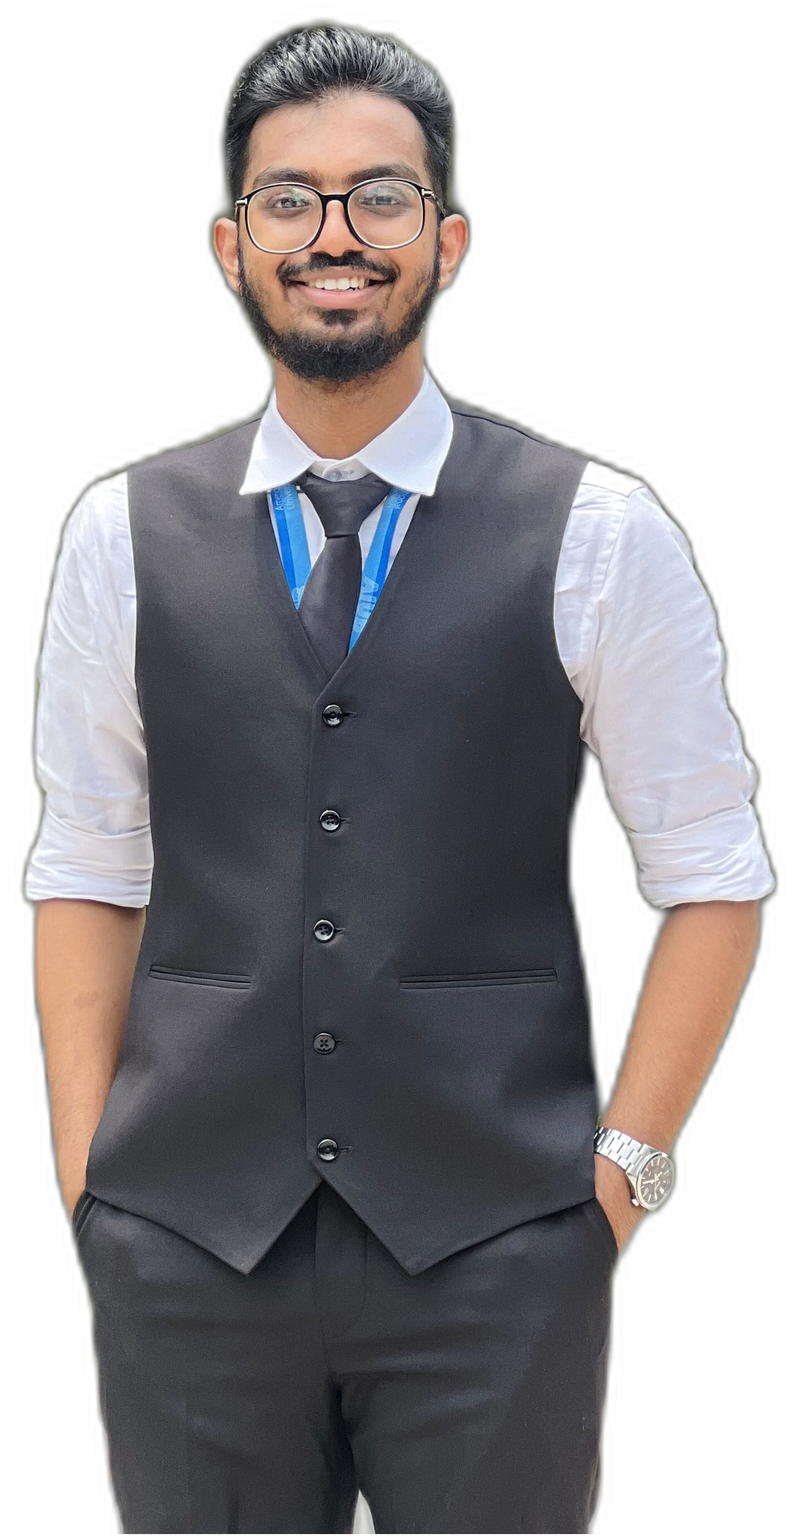
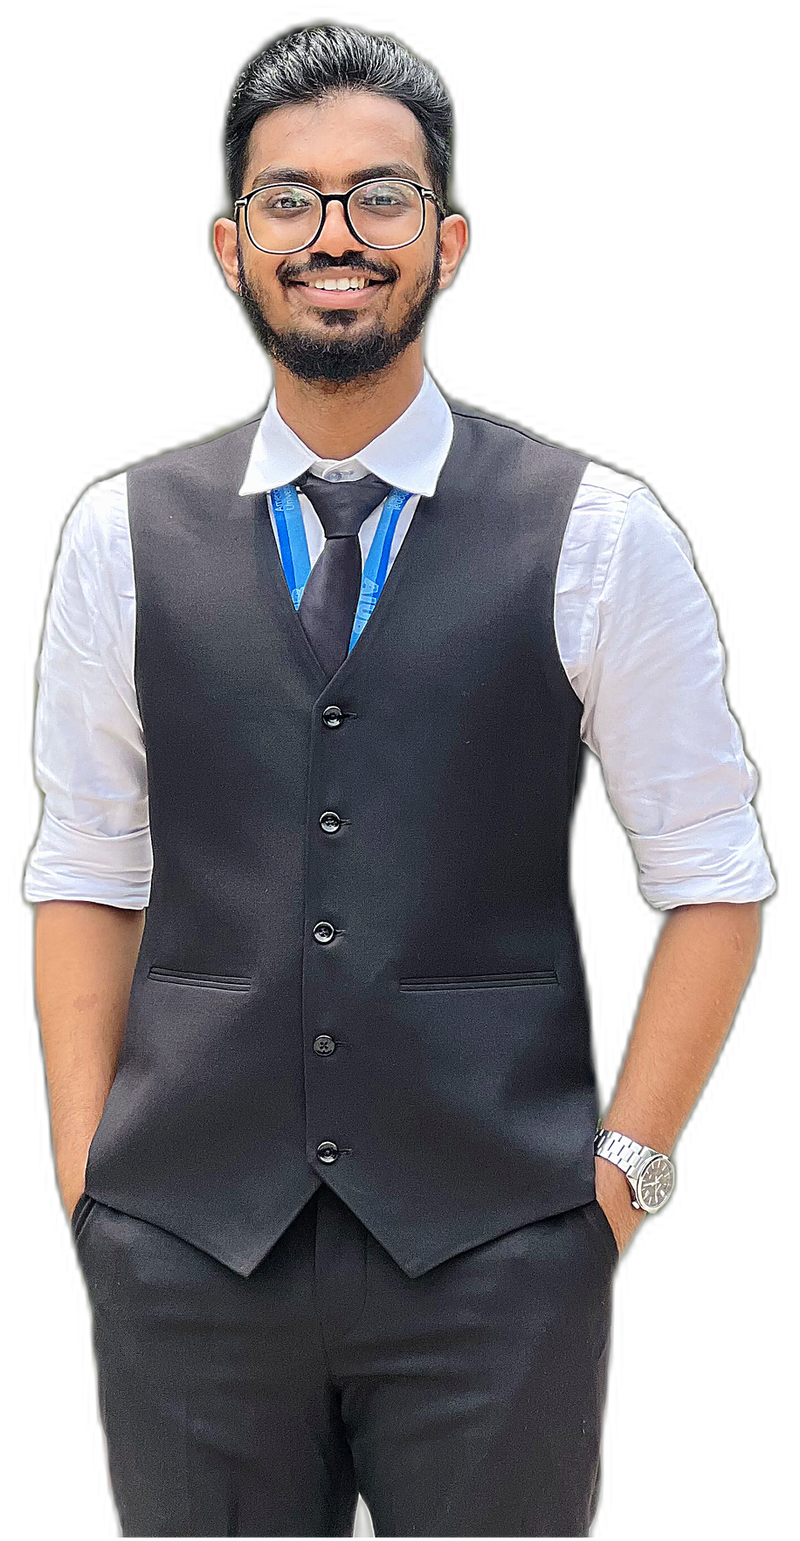
Refactor code structure for improved readability and maintainability

diff --git a/assets/css/style.css b/assets/css/style.css
@@ -226,25 +226,9 @@ body {
                 background 0.3s ease;
 }
 
-.btn-dark::after {
-    content: '';
-    position: absolute;
-    inset: 0;
-    background: radial-gradient(circle at var(--x, 50%) var(--y, 50%), rgba(255,255,255,0.2) 0%, transparent 60%);
-    opacity: 0;
-    transition: opacity 0.3s ease;
-    pointer-events: none;
-}
-
 .btn-dark:hover {
-    transform: translateY(-3px) scale(1.04);
-    box-shadow:
-        0 0 20px rgba(108, 92, 231, 0.3),
-        0 8px 25px rgba(0, 0, 0, 0.2);
-}
-
-.btn-dark:hover::after {
-    opacity: 1;
+    transform: translateY(-2px) scale(1.03);
+    box-shadow: 0 6px 20px rgba(0, 0, 0, 0.15);
 }
 
 .btn-dark:active {
@@ -334,7 +318,7 @@ body {
     object-fit: cover;
     object-position: top center;
     transition: transform 0.5s cubic-bezier(0.16, 1, 0.3, 1);
-    filter: drop-shadow(0 8px 30px rgba(0, 0, 0, 0.1));
+    filter: drop-shadow(0 4px 12px rgba(0, 0, 0, 0.06));
 }
 
 .profile-pic-container:hover #profile-pic {
@@ -562,17 +546,8 @@ section {
 }
 
 .project-card:hover {
-    transform: translateY(-8px) scale(1.01);
-    border-color: rgba(108, 92, 231, 0.3);
-    box-shadow:
-        0 0 20px rgba(108, 92, 231, 0.1),
-        0 16px 40px rgba(0, 0, 0, 0.12);
-}
-
-[data-theme="dark"] .project-card:hover {
-    box-shadow:
-        0 0 25px rgba(108, 92, 231, 0.2),
-        0 16px 40px rgba(0, 0, 0, 0.3);
+    transform: translateY(-6px);
+    box-shadow: 0 12px 30px rgba(0, 0, 0, 0.1);
 }
 
 .project-card:active {
@@ -747,48 +722,9 @@ section {
                 border-color 0.4s ease;
 }
 
-/* Neon glow border effect */
-.skill-card::before {
-    content: '';
-    position: absolute;
-    inset: 0;
-    border-radius: var(--radius);
-    padding: 1.5px;
-    background: linear-gradient(135deg, #6c5ce7, #e94560, #00b894, #6c5ce7);
-    background-size: 300% 300%;
-    animation: neonShift 4s ease infinite;
-    -webkit-mask: linear-gradient(#fff 0 0) content-box, linear-gradient(#fff 0 0);
-    mask: linear-gradient(#fff 0 0) content-box, linear-gradient(#fff 0 0);
-    -webkit-mask-composite: xor;
-    mask-composite: exclude;
-    opacity: 0;
-    transition: opacity 0.4s ease;
-}
-
-.skill-card:hover::before {
-    opacity: 1;
-}
-
-@keyframes neonShift {
-    0% { background-position: 0% 50%; }
-    50% { background-position: 100% 50%; }
-    100% { background-position: 0% 50%; }
-}
-
 .skill-card:hover {
-    transform: translateY(-6px) scale(1.02);
-    border-color: transparent;
-    box-shadow:
-        0 0 15px rgba(108, 92, 231, 0.15),
-        0 0 30px rgba(108, 92, 231, 0.08),
-        0 12px 30px rgba(0, 0, 0, 0.1);
-}
-
-[data-theme="dark"] .skill-card:hover {
-    box-shadow:
-        0 0 20px rgba(108, 92, 231, 0.25),
-        0 0 40px rgba(108, 92, 231, 0.1),
-        0 12px 30px rgba(0, 0, 0, 0.3);
+    transform: translateY(-4px);
+    box-shadow: 0 8px 24px rgba(0, 0, 0, 0.08);
 }
 
 .skill-card:active {
@@ -946,8 +882,8 @@ footer {
 }
 
 #admin-fab:hover {
-    transform: scale(1.15) rotate(5deg);
-    box-shadow: 0 8px 30px rgba(0, 0, 0, 0.3);
+    transform: scale(1.1);
+    box-shadow: 0 6px 20px rgba(0, 0, 0, 0.2);
 }
 
 #admin-fab:active {

diff --git a/index.html b/index.html
@@ -63,7 +63,7 @@
         <!-- Photo centered -->
         <div class="hero-photo-wrapper reveal">
             <div class="profile-pic-container reveal-child">
-                <img id="profile-pic" src="assets/images/profile.png" alt="Profile Picture">
+                <img id="profile-pic" src="assets/images/profile.webp" alt="Profile Picture" onerror="this.src='assets/images/profile.png'">
                 <div class="pic-overlay admin-only" onclick="triggerPicUpload()">
                     <span>Change Photo</span>
                 </div>

diff --git a/assets/js/app.js b/assets/js/app.js
@@ -399,6 +399,7 @@ function initGSAPAnimations() {
             gsap.to(pill, { x: 0, y: 0, duration: 0.5, ease: 'elastic.out(1, 0.5)' });
         });
     });
+
 }
 
 // ===== THEME TOGGLE =====
